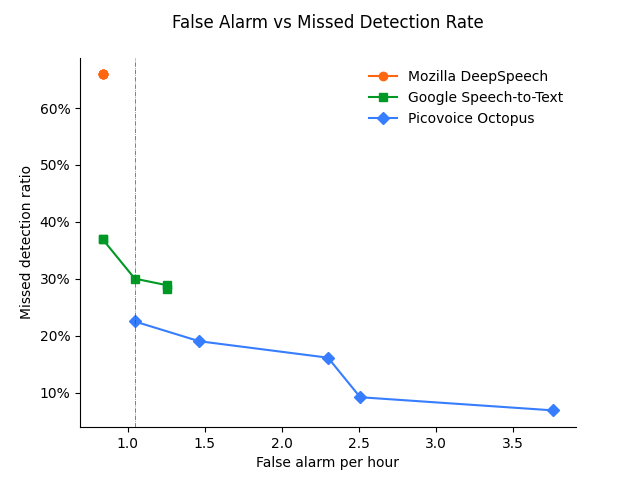
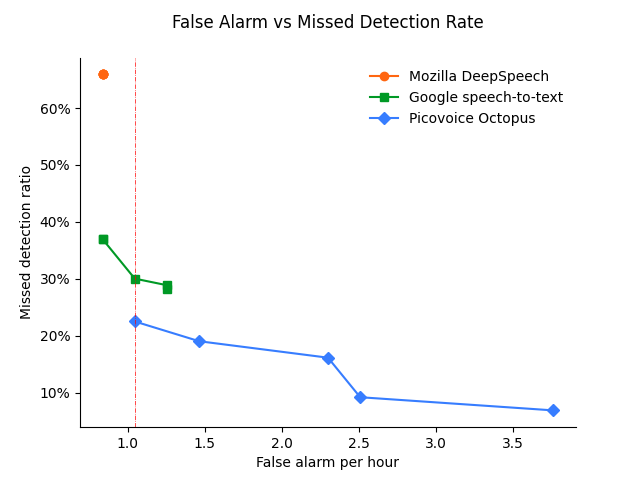
Google Speech-to-Text -> Google speech-to-text

Changed region(s): [[0.625, 0.125, 0.875, 0.2812]]

diff --git a/plot.py b/plot.py
@@ -33,7 +33,7 @@ def main():
     colors_list = [M_COLOR, G_COLOR, PV_COLOR]
     markers_list = ['o', 's', 'D']
     engines = ['MOZILLA_DEEP_SPEECH', 'GOOGLE_SPEECH_TO_TEXT', 'PICOVOICE_OCTOPUS']
-    engine_labels = ['Mozilla DeepSpeech', 'Google Speech-to-Text', 'Picovoice Octopus']
+    engine_labels = ['Mozilla DeepSpeech', 'Google speech-to-text', 'Picovoice Octopus']
     for index, engine in enumerate(engines):
         path = os.path.join(
             os.path.dirname(__file__),
@@ -51,7 +51,6 @@ def main():
             false_rate.append(results[str(confidence_level)][0])
             missed_rate.append(results[str(confidence_level)][1])
         line_plot.plot(false_rate, missed_rate, label=engine, marker=markers_list[index], color=colors_list[index])
-        print(missed_rate)
         max_missed_rate.append(max(missed_rate))
         min_missed_rate.append(min(missed_rate))
 
